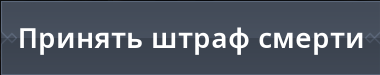
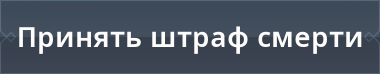
Фикс смерти Добавлен 6 лвл в печати В сборщике все выходы через мышку

Changed region(s): [[0.0, 0.0, 1.0, 1.0], [0.9842, 0.5946, 1.0, 0.973]]

diff --git a/SborPlushek/script_dlya_sbora_plushek.py b/SborPlushek/script_dlya_sbora_plushek.py
@@ -172,8 +172,7 @@ class AHKActions():
 
 
 # Класс для работы компьютерного зрения и изображений
-class Image():
-
+class Image:
     def matching(self, main_image_name, template_image_name, need_for_taking_screenshot=False, threshold=0.8,
                  func=None, area_of_screenshot=None):
 
@@ -211,6 +210,7 @@ class Image():
         else:
             main_screen = pyscreenshot.grab()
         main_screen.save(image_name)
+
     def get_main_color(self, file, colors_amount=1024):
         img = pil.open(file)
         colors = img.getcolors(colors_amount)  # put a higher value if there are many colors in your image
@@ -459,6 +459,7 @@ class IOOperations:
                                         f'SborPlushek_current_dungeon={current_dungeon_num}\n')
         with open('settings.txt', 'w') as f:
             f.write(new_data)
+
 io = IOOperations()
 
 class InGame():
@@ -567,7 +568,6 @@ class InGame():
         ahk.mouse_actions('click')
 
     def get_all_battle_pass_rewards(self):
-
         def __get_rewards():
             while image.matching(f'{PATH_TO_SCRIPT}main_screen.jpg', f'{PATH_TO_SCRIPT}get_reward.png', need_for_taking_screenshot=True,
                                   area_of_screenshot=(1225, 270, 1375, 370), threshold=0.7) is True:
@@ -577,8 +577,8 @@ class InGame():
 
             return True
 
-
         y_cords_battle_pass_reward = 290
+
         for i in range(2):
             ahk.mouse_actions('move', x=90, y=y_cords_battle_pass_reward)
             ahk.mouse_actions('click')
@@ -592,14 +592,16 @@ class InGame():
 
             y_cords_battle_pass_reward += 90
 
-        ahk.mouse_actions('esc')
+        ahk.mouse_actions('move', x=1800, y=80)
+        ahk.mouse_actions('click')
+
+        time.sleep(2)
 
     def go_to_bonus_menu(self):
         ahk.mouse_actions('move', x=1590, y=575)
         ahk.mouse_actions('click')
 
     def get_bonuses_from_bonus_menu(self):
-
         def __collect_bonus():
             ahk.mouse_actions('move', x=1400, y=560)
             ahk.mouse_actions('click')
@@ -626,7 +628,8 @@ class InGame():
 
             counter += 110
 
-        ahk.mouse_actions('esc')
+        ahk.mouse_actions('move', x=1800, y=80)
+        ahk.mouse_actions('click')
 
     def go_to_town(self):
         time.sleep(2)
@@ -696,8 +699,8 @@ class InGame():
         ahk.mouse_actions('move', x=1080, y=710)
         ahk.mouse_actions('click')
 
-        ahk.mouse_actions('esc')
-
+        ahk.mouse_actions('move', x=1800, y=80)
+        ahk.mouse_actions('click')
 
     def go_to_sellers(self):
 
@@ -828,6 +831,7 @@ class InGame():
 
                 warehouse_worker_x = 200
                 warehouse_worker_y = 300
+
         # go_to_warehouse_worker
         ahk.mouse_actions('move', x=warehouse_worker_x, y=warehouse_worker_y)
         #for i in range(2):
@@ -844,7 +848,6 @@ class InGame():
         self._autoselling()
         print("Пришел к бакалейщику")
 
-
         #go_to_buyer
         if AMOUNT_OF_EVENTS == 2:
             pass
@@ -854,7 +857,6 @@ class InGame():
         time.sleep(13*MULTIPLIER)
         self._autoselling()
         print("Пришел к скупщику")
-
 
     def switch_off_fast_walk_to_sellers(self):
         ahk.mouse_actions('move', x=200, y=300)

diff --git a/Booster/Stamps/functions.py b/Booster/Stamps/functions.py
@@ -40,7 +40,8 @@ class ImpressStamps:
             2: 'Booster\\Stamps\\imgs\\templates\\two_lvl.png',
             1: 'Booster\\Stamps\\imgs\\templates\\one_lvl.png',
             4: 'Booster\\Stamps\\imgs\\templates\\four_lvl.png',
-            5: 'Booster\\Stamps\\imgs\\templates\\five_lvl.png'}
+            5: 'Booster\\Stamps\\imgs\\templates\\five_lvl.png',
+            6: 'Booster\\Stamps\\imgs\\templates\\six_lvl.png'}
 
         for lvl, img_path in lvls.items():
             is_match = image.matching('Booster\\Stamps\\imgs\\screenshots\\impress_lvl.png', img_path)

diff --git a/Alchemy/rolls.py b/Alchemy/rolls.py
@@ -501,7 +501,7 @@ class Image:
     def is_dead(self):
         """Проверка на то, умер ли персонаж"""
 
-        image.take_screenshot(f'{PATH_TO_ALCHEMY}\\imgs\\is_dead.png', area_of_screenshot=(720, 800, 1150, 950))
+        image.take_screenshot(f'{PATH_TO_ALCHEMY}\\imgs\\is_dead.png', area_of_screenshot=(730, 825, 1125, 920))
 
         dead_button_1 = image.matching(f'{PATH_TO_ALCHEMY}\\imgs\\is_dead.png',
                                        f'{PATH_TO_ALCHEMY}\\imgs\\dead.png', need_for_taking_screenshot=False)

diff --git a/BigBot.py b/BigBot.py
@@ -1,4 +1,3 @@
-import time
 import tkinter as tk
 from tkinter import ttk
 import json
@@ -19,7 +18,7 @@ from Booster.Souls import souls_bot
 from Booster.Stamps import stamps_bot
 from Booster.Revival import revival_bot
 from Booster.Cases import cases_bot
-#
+
 LIST_OF_ROLLS = (
     'Roll_00',
     'Roll_000',
